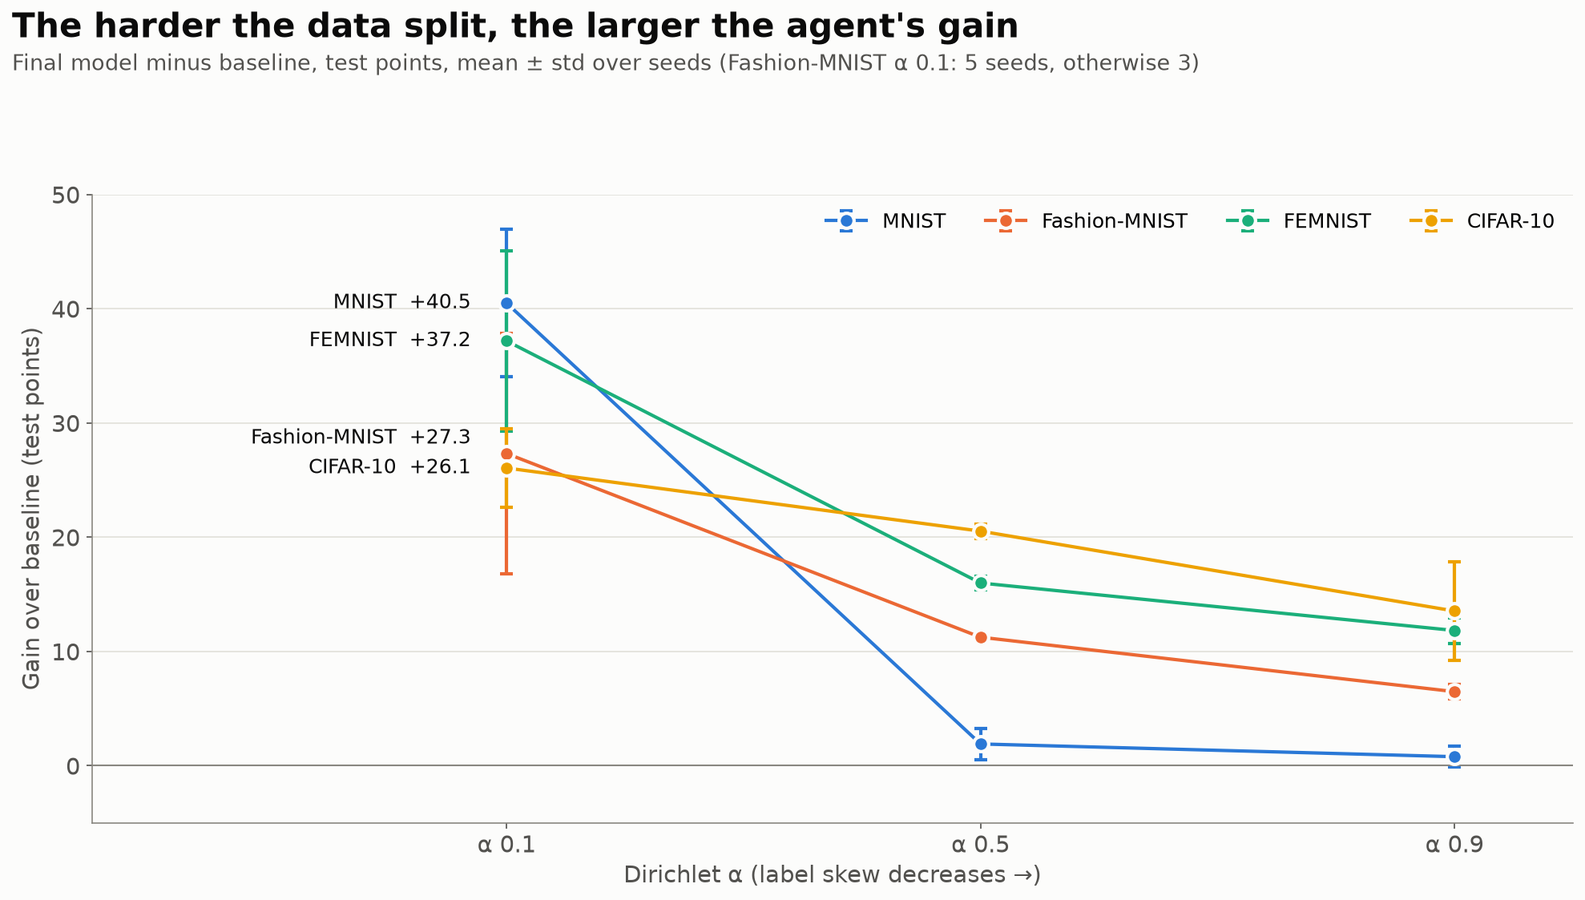
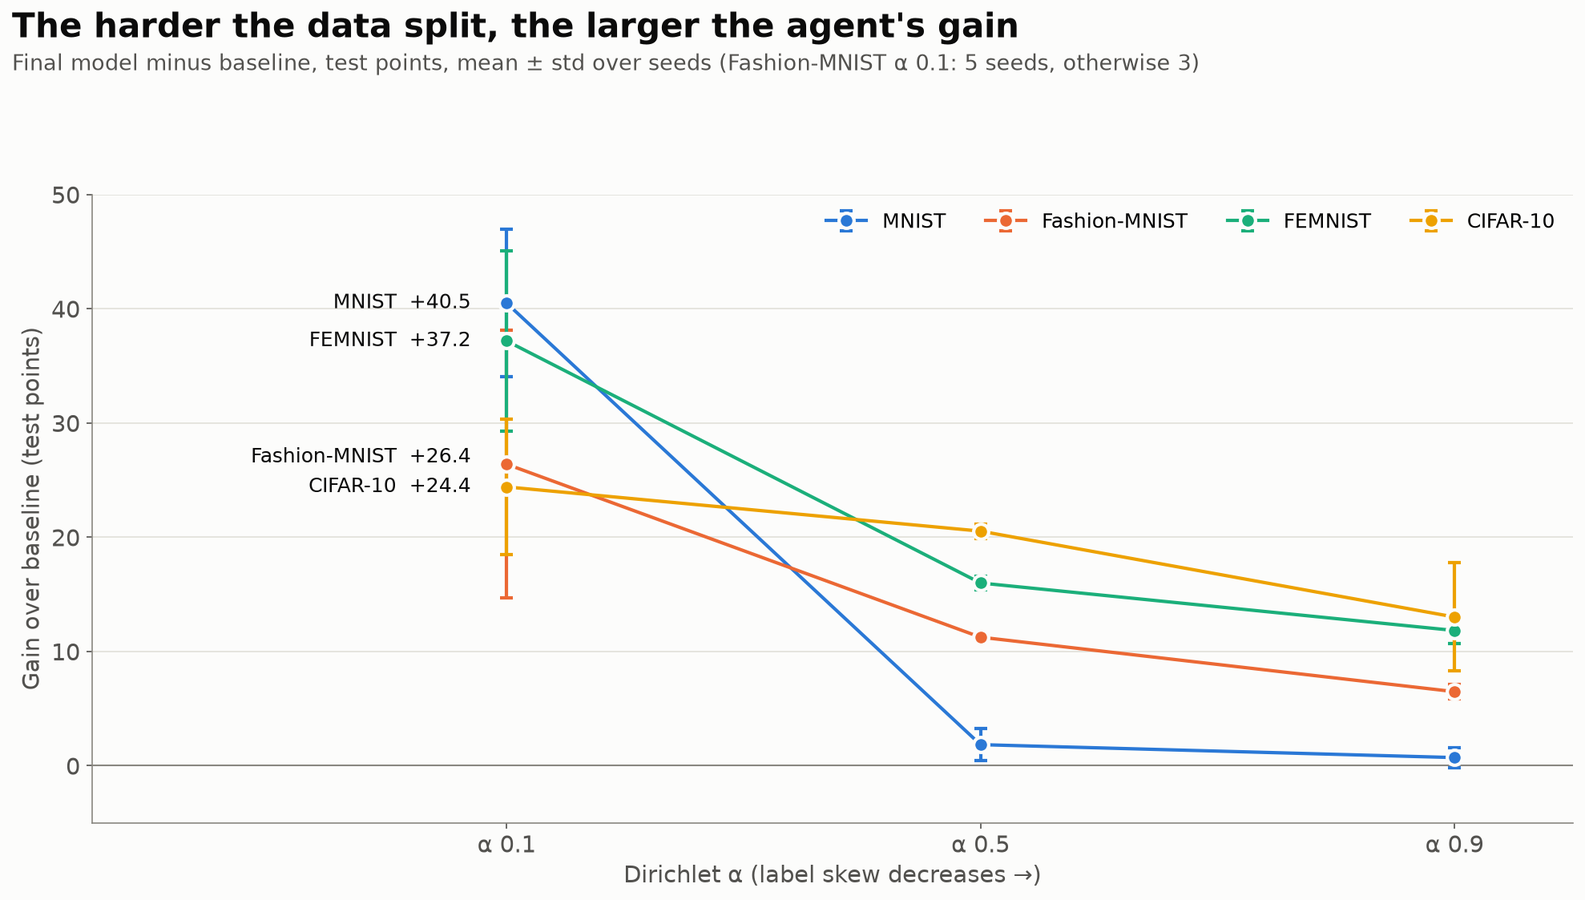
fix(evidence): compare the baseline with the best equal-budget model, not the pruned one
In 6 of 38 fair runs the reported best model was a pruned model, which
fine-tunes already trained weights for extra rounds, so the gain over the
baseline was up to 5 points too high (Fashion-MNIST alpha 0.1 seed 99, CIFAR-10
alpha 0.1 seed 17). The summaries and figures now use each run's best
equal-budget model, chosen by global validation accuracy like the supervisor,
and the four-dataset table lists pruning separately (14 runs halve their
parameters within 2 points).

diff --git a/scripts/four_dataset_table.py b/scripts/four_dataset_table.py
@@ -56,7 +56,9 @@ def build() -> str:
         "The on-device SLM chooses the order of the search steps; every model it compares, the baseline",
         "included, is trained with the same budget (10 rounds × 5 local epochs, same initial weights).",
         "Test accuracy is the mean over the 8 workers on the dataset's official test split, mean ± std",
-        "over seeds (n = number of seeds). Gain = final model minus baseline, per seed.",
+        "over seeds (n = number of seeds). Final = the run's best equal-budget model, chosen by global",
+        "validation accuracy as the supervisor does; a pruned model fine-tunes trained weights for extra",
+        "rounds, so pruning is reported separately below. Gain = final model minus baseline, per seed.",
         "",
         "## Baseline vs. final model",
         "",
@@ -70,12 +72,12 @@ def build() -> str:
                 lines.append(f"| {dname} | {alpha} | 0 | pending | pending | pending | – | – |")
                 continue
             base = [r["baseline_test_accuracy"] for r in runs if _num(r.get("baseline_test_accuracy"))]
-            best = [r["best_test_accuracy"] for r in runs if _num(r.get("best_test_accuracy"))]
-            gains = [r["best_test_accuracy"] - r["baseline_test_accuracy"] for r in runs
-                     if _num(r.get("best_test_accuracy")) and _num(r.get("baseline_test_accuracy"))]
+            best = [r["final_test_accuracy"] for r in runs if _num(r.get("final_test_accuracy"))]
+            gains = [r["final_test_accuracy"] - r["baseline_test_accuracy"] for r in runs
+                     if _num(r.get("final_test_accuracy")) and _num(r.get("baseline_test_accuracy"))]
             topologies = Counter(r.get("best_topology") or "?" for r in runs)
             topology = ", ".join(f"{name} {count}/{len(runs)}" for name, count in topologies.most_common())
-            params = [r["best_parameter_count"] for r in runs if r.get("best_parameter_count")]
+            params = [r["final_parameter_count"] for r in runs if r.get("final_parameter_count")]
             params_text = f"{statistics.fmean(params) / 1000:.0f}k (mean)" if params else "–"
             lines.append(f"| {dname} | {alpha} | {len(runs)} | {_pct(base)} | {_pct(best)} | {_signed(gains)} | {topology} | {params_text} |")
     lines += [
@@ -107,6 +109,26 @@ def build() -> str:
             lines.append(f"| {dname} | {alpha} | " + " | ".join(cells) + " |")
     lines += [
         "",
+        "## Pruning (after the equal-budget comparison)",
+        "",
+        "When the best model can be channel-pruned, the supervisor removes 30 % of its units and",
+        "fine-tunes; the pruned model is kept only within 2 points of the best. Fine-tuning is extra",
+        "training on trained weights, so these numbers are not part of the gain above.",
+        "",
+        "| Dataset | α | Seed | Final test (%) | Pruned test (%) | Parameters: final → pruned |",
+        "|---|---|---|---|---|---|",
+    ]
+    for dataset, dname in DATASETS:
+        for split, alpha in SPLITS:
+            for run in data.get((dataset, split), []):
+                if run.get("pruning_accepted") and _num(run.get("pruned_test_accuracy")):
+                    before = run.get("final_parameter_count")
+                    after = run.get("pruned_parameter_count")
+                    params = f"{before:,} → {after:,}" if before and after else "–"
+                    lines.append(f"| {dname} | {alpha} | {run['seed']} | {100 * run['final_test_accuracy']:.2f} | "
+                                 f"{100 * run['pruned_test_accuracy']:.2f} | {params} |")
+    lines += [
+        "",
         "## Per seed (test %)",
         "",
         "| Dataset | α | Seed | Baseline | Final | Final configuration |",
@@ -115,8 +137,10 @@ def build() -> str:
     for dataset, dname in DATASETS:
         for split, alpha in SPLITS:
             for run in data.get((dataset, split), []):
-                base, best = run.get("baseline_test_accuracy"), run.get("best_test_accuracy")
-                config = f"{run.get('best_architecture') or '?'} on {run.get('best_topology') or '?'}"
+                base, best = run.get("baseline_test_accuracy"), run.get("final_test_accuracy")
+                # The final model is the one before pruning, so drop the pruning suffix.
+                architecture = (run.get("best_architecture") or "?").replace("-pruned30", "")
+                config = f"{architecture} on {run.get('best_topology') or '?'}"
                 lines.append(
                     f"| {dname} | {alpha} | {run['seed']} | {100 * base:.2f} | {100 * best:.2f} | {config} |"
                     if _num(base) and _num(best) else f"| {dname} | {alpha} | {run['seed']} | n/a | n/a | {config} |"

diff --git a/scripts/fair_summary.py b/scripts/fair_summary.py
@@ -135,7 +135,7 @@ def communication_section(data: dict, date: str) -> list[str]:
                 base_mb.append(base_msgs * (baseline.get("parameter_count") or 0) * FLOAT_BYTES / 1e6)
                 edges = TOPOLOGY_EDGES.get(run.get("best_topology") or "", 0)
                 final_msgs.append(rounds * edges)
-                final_mb.append(rounds * edges * (run.get("best_parameter_count") or 0) * FLOAT_BYTES / 1e6)
+                final_mb.append(rounds * edges * (run.get("final_parameter_count") or 0) * FLOAT_BYTES / 1e6)
                 learned = next((s for s in run["steps"] if s["step"] == "learn_topology" and s.get("status") == "completed"), None)
                 count = _learned_edges(apg, dataset, split, run["seed"])
                 if learned and count:
@@ -143,7 +143,7 @@ def communication_section(data: dict, date: str) -> list[str]:
                     learned_mb.append(rounds * count * (learned.get("parameter_count") or 0) * FLOAT_BYTES / 1e6)
                     if isinstance(learned.get("test_accuracy"), (int, float)):
                         learned_test.append(learned["test_accuracy"])
-            best = [r["best_test_accuracy"] for r in runs if isinstance(r.get("best_test_accuracy"), (int, float))]
+            best = [r["final_test_accuracy"] for r in runs if isinstance(r.get("final_test_accuracy"), (int, float))]
             mean = statistics.fmean
             learned_cell = (f"{mean(learned_edges):.1f} / {10 * mean(learned_edges):.0f} / {mean(learned_mb):.1f}"
                             if learned_edges else "n/a")
@@ -307,7 +307,7 @@ def ablation_section(data: dict, date: str) -> list[str]:
                 campaign = source.get(seed, {})
                 values = {
                     "baseline": [campaign.get("baseline_test_accuracy"), *(_test(r, "baseline") for r in runs)],
-                    "full": [campaign.get("best_test_accuracy"), *(_test(r, "full") for r in runs)],
+                    "full": [campaign.get("final_test_accuracy"), *(_test(r, "full") for r in runs)],
                 }
                 row = []
                 for label, vals in values.items():
@@ -454,10 +454,10 @@ def decision_section(date: str) -> list[str]:
 def limitations_section(data: dict) -> list[str]:
     """What these results do not show."""
     best = [
-        r["best_test_accuracy"]
+        r["final_test_accuracy"]
         for runs in data.values()
         for r in runs
-        if isinstance(r.get("best_test_accuracy"), (int, float))
+        if isinstance(r.get("final_test_accuracy"), (int, float))
     ]
     target = next((r.get("target_accuracy") for runs in data.values() for r in runs if r.get("target_accuracy")), 0.99)
     return [
@@ -519,10 +519,10 @@ def build(date: str) -> str:
             if not runs:
                 continue
             base = [r["baseline_test_accuracy"] for r in runs if isinstance(r.get("baseline_test_accuracy"), (int, float))]
-            best = [r["best_test_accuracy"] for r in runs if isinstance(r.get("best_test_accuracy"), (int, float))]
-            gains = [r["best_test_accuracy"] - r["baseline_test_accuracy"] for r in runs
-                     if isinstance(r.get("best_test_accuracy"), (int, float)) and isinstance(r.get("baseline_test_accuracy"), (int, float))]
-            params = sorted({f"{r['best_parameter_count']:,}" for r in runs if r.get("best_parameter_count")})
+            best = [r["final_test_accuracy"] for r in runs if isinstance(r.get("final_test_accuracy"), (int, float))]
+            gains = [r["final_test_accuracy"] - r["baseline_test_accuracy"] for r in runs
+                     if isinstance(r.get("final_test_accuracy"), (int, float)) and isinstance(r.get("baseline_test_accuracy"), (int, float))]
+            params = sorted({f"{r['final_parameter_count']:,}" for r in runs if r.get("final_parameter_count")})
             lines.append(f"| {dname} | {alpha} | {len(runs)} | {_pct(base)} | {_pct(best)} | {_signed(gains)} | {', '.join(params)} |")
 
     lines += [
@@ -575,7 +575,7 @@ def build(date: str) -> str:
                         continue
                     mark = " (reverted)" if step.get("accepted") is False else ""
                     parts.append(f"{label} {100 * step['validation_accuracy']:.2f}{mark}")
-                best = run.get("best_test_accuracy")
+                best = run.get("final_test_accuracy")
                 lines.append(f"| {run['seed']} | {' → '.join(parts)} | {100 * best:.2f} |" if isinstance(best, (int, float)) else f"| {run['seed']} | {' → '.join(parts)} | n/a |")
             lines.append("")
     return "\n".join(lines) + "\n"

diff --git a/scripts/evidence_runs.py b/scripts/evidence_runs.py
@@ -30,8 +30,37 @@ def baseline_excluded(run: dict) -> bool:
     return str(run.get("run_id")) in EXCLUDED
 
 
+# Trainings that use the baseline's budget (rounds x local epochs from the run's initial
+# weights). Pruning fine-tunes already trained weights, so it is extra training.
+EQUAL_BUDGET_STEPS = ("baseline_training", "measure_step", "learn_topology")
+
+
+def fair_final(run: dict) -> dict:
+    """The run's best equal-budget model, chosen by global validation accuracy like the supervisor.
+
+    Returns {"test", "validation", "step", "parameter_count"}; a run whose best model is a
+    pruned and fine-tuned one is scored by its best model before pruning.
+    """
+    steps = [
+        s for s in run["steps"]
+        if s["step"] in EQUAL_BUDGET_STEPS and s.get("status", "completed") == "completed"
+        and isinstance(s.get("validation_accuracy"), (int, float)) and isinstance(s.get("test_accuracy"), (int, float))
+    ]
+    best = max(steps, key=lambda s: s["validation_accuracy"])
+    return {
+        "test": best["test_accuracy"],
+        "validation": best["validation_accuracy"],
+        "step": best.get("measures") or best["step"],
+        "parameter_count": best.get("parameter_count"),
+    }
+
+
 def campaign_runs(dataset: str, split: str, date: str | None = None) -> list[dict]:
     """Completed fair-campaign runs of one setting, newest report per seed, sorted by seed.
+
+    Each run gains ``final_test_accuracy`` (and validation, step, parameter count): its best
+    equal-budget model (``fair_final``), which the comparison with the baseline uses.
+    ``best_test_accuracy`` may be a pruned model that was fine-tuned for extra rounds.
 
     Reads ``fair-<dataset>-<split>-3seed-<date>.json`` (any date when ``date`` is None)
     and the extra-seed and re-run reports ``fair-<dataset>-<split>-{extra-seeds,rerun}-*.json``.
@@ -44,5 +73,12 @@ def campaign_runs(dataset: str, split: str, date: str | None = None) -> list[dic
     for path in paths:
         for run in json.loads(path.read_text(encoding="utf-8"))["runs"]:
             if run["status"] == "completed" and not run_excluded(run):
-                by_seed[run["seed"]] = run
+                final = fair_final(run)
+                by_seed[run["seed"]] = {
+                    **run,
+                    "final_test_accuracy": final["test"],
+                    "final_validation_accuracy": final["validation"],
+                    "final_step": final["step"],
+                    "final_parameter_count": final["parameter_count"] or run.get("best_parameter_count"),
+                }
     return [by_seed[seed] for seed in sorted(by_seed)]

diff --git a/scripts/paper_figures.py b/scripts/paper_figures.py
@@ -84,7 +84,7 @@ def fig_baseline_vs_final(data) -> None:
         for i, (split, alpha) in enumerate(SPLITS):
             runs = data.get((dataset, split), [])
             base = mean_std([r["baseline_test_accuracy"] for r in runs])
-            final = mean_std([r["best_test_accuracy"] for r in runs])
+            final = mean_std([r["final_test_accuracy"] for r in runs])
             if base[0] is None:
                 continue
             for offset, (value, std), color in ((-width / 2 - 0.01, base, BASELINE_GRAY), (width / 2 + 0.01, final, SERIES[0])):
@@ -112,7 +112,7 @@ def fig_gain_vs_alpha(data) -> None:
         gains, stds = [], []
         for split, _ in SPLITS:
             runs = data.get((dataset, split), [])
-            g = mean_std([r["best_test_accuracy"] - r["baseline_test_accuracy"] for r in runs])
+            g = mean_std([r["final_test_accuracy"] - r["baseline_test_accuracy"] for r in runs])
             gains.append(g[0])
             stds.append(g[1])
         ax.errorbar(x, gains, yerr=stds, color=color, linewidth=2, marker="o", markersize=9, capsize=4,

diff --git a/docs/evidence/fair-four-datasets.md b/docs/evidence/fair-four-datasets.md
@@ -1,29 +1,31 @@
 # Fair evaluation across four datasets
 
-Generated 2026-11-28 01:10 UTC by `scripts/four_dataset_table.py`.
+Generated 2026-11-28 01:36 UTC by `scripts/four_dataset_table.py`.
 
 Eight Jetson workers, decentralized training, Dirichlet label skew α (smaller = more skewed).
 The on-device SLM chooses the order of the search steps; every model it compares, the baseline
 included, is trained with the same budget (10 rounds × 5 local epochs, same initial weights).
 Test accuracy is the mean over the 8 workers on the dataset's official test split, mean ± std
-over seeds (n = number of seeds). Gain = final model minus baseline, per seed.
+over seeds (n = number of seeds). Final = the run's best equal-budget model, chosen by global
+validation accuracy as the supervisor does; a pruned model fine-tunes trained weights for extra
+rounds, so pruning is reported separately below. Gain = final model minus baseline, per seed.
 
 ## Baseline vs. final model
 
 | Dataset | α | n | Baseline test (%) | Final test (%) | Gain (points) | Selected topology | Final params |
 |---|---|---|---|---|---|---|---|
 | MNIST | 0.1 | 3 | 56.33 ± 7.27 | 96.83 ± 1.33 | +40.50 ± 6.48 | mesh 3/3 | 62k (mean) |
-| MNIST | 0.5 | 3 | 96.96 ± 0.98 | 98.87 ± 0.46 | +1.91 ± 1.36 | learned 2/3, mesh 1/3 | 58k (mean) |
-| MNIST | 0.9 | 3 | 98.09 ± 0.66 | 98.89 ± 0.36 | +0.79 ± 0.90 | learned 2/3, directed_ring 1/3 | 36k (mean) |
-| Fashion-MNIST | 0.1 | 5 | 44.26 ± 3.69 | 71.60 ± 8.55 | +27.33 ± 10.52 | mesh 4/5, learned 1/5 | 67k (mean) |
+| MNIST | 0.5 | 3 | 96.96 ± 0.98 | 98.81 ± 0.43 | +1.85 ± 1.38 | learned 2/3, mesh 1/3 | 62k (mean) |
+| MNIST | 0.9 | 3 | 98.09 ± 0.66 | 98.81 ± 0.30 | +0.71 ± 0.87 | learned 2/3, directed_ring 1/3 | 62k (mean) |
+| Fashion-MNIST | 0.1 | 5 | 44.26 ± 3.69 | 70.66 ± 9.74 | +26.40 ± 11.72 | mesh 4/5, learned 1/5 | 68k (mean) |
 | Fashion-MNIST | 0.5 | 3 | 78.41 ± 1.60 | 89.67 ± 1.29 | +11.25 ± 0.32 | mesh 3/3 | 103k (mean) |
 | Fashion-MNIST | 0.9 | 3 | 83.56 ± 0.54 | 90.05 ± 0.92 | +6.49 ± 0.63 | mesh 3/3 | 60k (mean) |
 | FEMNIST | 0.1 | 3 | 33.38 ± 4.38 | 70.57 ± 4.49 | +37.19 ± 7.87 | mesh 3/3 | 106k (mean) |
 | FEMNIST | 0.5 | 3 | 66.73 ± 1.05 | 82.73 ± 1.23 | +16.00 ± 0.57 | mesh 3/3 | 106k (mean) |
 | FEMNIST | 0.9 | 3 | 71.78 ± 2.08 | 83.62 ± 1.13 | +11.84 ± 1.12 | mesh 3/3 | 100k (mean) |
-| CIFAR-10 | 0.1 | 3 | 35.36 ± 8.31 | 61.42 ± 4.85 | +26.06 ± 3.46 | mesh 3/3 | 194k (mean) |
+| CIFAR-10 | 0.1 | 3 | 35.36 ± 8.31 | 59.77 ± 3.44 | +24.41 ± 5.92 | mesh 3/3 | 248k (mean) |
 | CIFAR-10 | 0.5 | 3 | 59.57 ± 1.71 | 80.11 ± 2.30 | +20.54 ± 0.63 | mesh 3/3 | 273k (mean) |
-| CIFAR-10 | 0.9 | 3 | 68.90 ± 3.15 | 82.44 ± 1.20 | +13.55 ± 4.29 | mesh 3/3 | 240k (mean) |
+| CIFAR-10 | 0.9 | 3 | 68.90 ± 3.15 | 81.92 ± 1.93 | +13.02 ± 4.74 | mesh 3/3 | 273k (mean) |
 
 ## Effect of each step (test points)
 
@@ -46,6 +48,28 @@ topology (APG) is measured last, without a keep/revert decision.
 | CIFAR-10 | 0.5 | +2.36 ± 1.81 (3/3 kept) | +17.56 ± 2.32 (3/3 kept) | +0.19 ± 0.93 (2/3 kept) | -2.28 ± 3.44 (1/3 kept) | -0.10 ± 0.77 (1/3 kept) | -6.46 ± 3.00 |
 | CIFAR-10 | 0.9 | +1.48 ± 3.87 (2/3 kept) | +10.92 ± 2.07 (3/3 kept) | -0.52 ± 0.54 (1/3 kept) | -1.44 ± 2.45 (1/3 kept) | -0.39 ± 0.20 (0/3 kept) | -2.12 ± 0.55 |
 
+## Pruning (after the equal-budget comparison)
+
+When the best model can be channel-pruned, the supervisor removes 30 % of its units and
+fine-tunes; the pruned model is kept only within 2 points of the best. Fine-tuning is extra
+training on trained weights, so these numbers are not part of the gain above.
+
+| Dataset | α | Seed | Final test (%) | Pruned test (%) | Parameters: final → pruned |
+|---|---|---|---|---|---|
+| MNIST | 0.5 | 17 | 99.20 | 99.22 | 129,770 → 64,240 |
+| MNIST | 0.5 | 2026 | 98.88 | 99.06 | 22,682 → 11,065 |
+| MNIST | 0.9 | 17 | 99.00 | 99.10 | 129,770 → 64,240 |
+| MNIST | 0.9 | 2026 | 98.95 | 99.09 | 22,682 → 11,065 |
+| Fashion-MNIST | 0.1 | 99 | 59.47 | 64.14 | 17,130 → 8,403 |
+| Fashion-MNIST | 0.5 | 2026 | 90.14 | 89.56 | 69,770 → 33,995 |
+| Fashion-MNIST | 0.9 | 17 | 90.85 | 90.41 | 129,770 → 64,240 |
+| Fashion-MNIST | 0.9 | 42 | 89.05 | 88.08 | 28,810 → 14,493 |
+| Fashion-MNIST | 0.9 | 2026 | 90.25 | 89.42 | 22,682 → 11,065 |
+| FEMNIST | 0.9 | 17 | 84.68 | 83.70 | 133,150 → 66,632 |
+| FEMNIST | 0.9 | 42 | 83.75 | 83.02 | 112,830 → 57,122 |
+| CIFAR-10 | 0.1 | 17 | 60.48 | 65.44 | 324,394 → 161,094 |
+| CIFAR-10 | 0.9 | 2026 | 79.96 | 81.54 | 197,290 → 97,700 |
+
 ## Per seed (test %)
 
 | Dataset | α | Seed | Baseline | Final | Final configuration |
@@ -55,14 +79,14 @@ topology (APG) is measured last, without a keep/revert decision.
 | MNIST | 0.1 | 2026 | 63.59 | 98.29 | nas-d3-w16x16x32-k5-conv-h64-drop20 on mesh |
 | MNIST | 0.5 | 17 | 95.84 | 99.20 | nas-d3-w16x64x64-k5-conv-h0-drop35 on mesh |
 | MNIST | 0.5 | 42 | 97.69 | 98.34 | hpo-adam-lr3e-4-bs32 on learned |
-| MNIST | 0.5 | 2026 | 97.35 | 99.06 | hpo-adam-lr3e-3-bs32-pruned30 on learned |
-| MNIST | 0.9 | 17 | 97.33 | 99.10 | hpo-adam-lr3e-4-bs32-pruned30 on learned |
+| MNIST | 0.5 | 2026 | 97.35 | 98.88 | hpo-adam-lr3e-3-bs32 on learned |
+| MNIST | 0.9 | 17 | 97.33 | 99.00 | hpo-adam-lr3e-4-bs32 on learned |
 | MNIST | 0.9 | 42 | 98.49 | 98.47 | seed-baseline on directed_ring |
-| MNIST | 0.9 | 2026 | 98.46 | 99.09 | hpo-adam-lr1e-3-bs64-pruned30 on learned |
+| MNIST | 0.9 | 2026 | 98.46 | 98.95 | hpo-adam-lr1e-3-bs64 on learned |
 | Fashion-MNIST | 0.1 | 7 | 48.26 | 74.09 | hpo-adam-lr3e-4-bs32 on mesh |
 | Fashion-MNIST | 0.1 | 17 | 43.13 | 82.40 | nas-d3-w16x64x64-k5-conv-h0-drop35 on mesh |
 | Fashion-MNIST | 0.1 | 42 | 44.94 | 61.71 | nas-d2-w64x64-k5-conv-h64-drop35 on mesh |
-| Fashion-MNIST | 0.1 | 99 | 46.40 | 64.14 | nas-d3-w16x32x32-k3-conv-h64-drop20-pruned30 on learned |
+| Fashion-MNIST | 0.1 | 99 | 46.40 | 59.47 | nas-d3-w16x32x32-k3-conv-h64-drop20 on learned |
 | Fashion-MNIST | 0.1 | 2026 | 38.58 | 75.64 | hpo-adam-lr3e-4-bs64 on mesh |
 | Fashion-MNIST | 0.5 | 17 | 79.69 | 90.65 | nas-d3-w16x64x64-k5-conv-h0-drop35 on mesh |
 | Fashion-MNIST | 0.5 | 42 | 76.62 | 88.21 | nas-d2-w64x64-k5-conv-h64-drop35 on mesh |
@@ -79,7 +103,7 @@ topology (APG) is measured last, without a keep/revert decision.
 | FEMNIST | 0.9 | 17 | 74.11 | 84.68 | hpo-adam-lr3e-3-bs32 on mesh |
 | FEMNIST | 0.9 | 42 | 71.08 | 83.75 | nas-d2-w64x64-k5-conv-h64-drop35 on mesh |
 | FEMNIST | 0.9 | 2026 | 70.14 | 82.43 | hpo-adam-lr1e-3-bs32 on mesh |
-| CIFAR-10 | 0.1 | 17 | 42.38 | 65.44 | hpo-adam-lr1e-3-bs8-pruned30 on mesh |
+| CIFAR-10 | 0.1 | 17 | 42.38 | 60.48 | hpo-adam-lr1e-3-bs8 on mesh |
 | CIFAR-10 | 0.1 | 42 | 26.19 | 56.03 | nas-d3-w32x64x128-k3-conv-h0-drop35 on mesh |
 | CIFAR-10 | 0.1 | 2026 | 37.50 | 62.79 | hpo-adam-lr3e-4-bs8 on mesh |
 | CIFAR-10 | 0.5 | 17 | 58.62 | 79.08 | hpo-adam-lr3e-4-bs8 on mesh |
@@ -87,4 +111,4 @@ topology (APG) is measured last, without a keep/revert decision.
 | CIFAR-10 | 0.5 | 2026 | 58.55 | 78.50 | nas-d2-w32x128-k3-conv-h0-drop35-c2 on mesh |
 | CIFAR-10 | 0.9 | 17 | 71.31 | 81.98 | baseline on mesh |
 | CIFAR-10 | 0.9 | 42 | 65.34 | 83.81 | hpo-adam-lr1e-3-bs32 on mesh |
-| CIFAR-10 | 0.9 | 2026 | 70.05 | 81.54 | nas-d2-w32x128-k3-conv-h0-drop35-c2-pruned30 on mesh |
+| CIFAR-10 | 0.9 | 2026 | 70.05 | 79.96 | nas-d2-w32x128-k3-conv-h0-drop35-c2 on mesh |

diff --git a/docs/evidence/fair-summary-2026-11-21.md b/docs/evidence/fair-summary-2026-11-21.md
@@ -1,6 +1,6 @@
 # Fair step-by-step evaluation: Fashion-MNIST and FEMNIST
 
-Generated 2026-11-25 16:48 UTC by `scripts/fair_summary.py`.
+Generated 2026-11-28 01:35 UTC by `scripts/fair_summary.py`.
 
 Eight Jetson workers, decentralized training, Dirichlet label split with α = 0.1, 0.5 and 0.9,
 seeds 17, 42 and 2026 (Fashion-MNIST α 0.1 also 7 and 99). Runs whose baseline started from
@@ -13,7 +13,7 @@ the mean over the 8 workers on the dataset's shared test split. Values are mean 
 
 | Dataset | α | Seeds | Baseline test (%) | Final model test (%) | Gain (points) | Final params |
 |---|---|---|---|---|---|---|
-| Fashion-MNIST | 0.1 | 5 | 44.26 ± 3.69 | 71.60 ± 8.55 | +27.33 ± 10.52 | 109,450, 129,770, 34,154, 51,754, 8,403 |
+| Fashion-MNIST | 0.1 | 5 | 44.26 ± 3.69 | 70.66 ± 9.74 | +26.40 ± 11.72 | 109,450, 129,770, 17,130, 34,154, 51,754 |
 | Fashion-MNIST | 0.5 | 3 | 78.41 ± 1.60 | 89.67 ± 1.29 | +11.25 ± 0.32 | 109,450, 129,770, 69,770 |
 | Fashion-MNIST | 0.9 | 3 | 83.56 ± 0.54 | 90.05 ± 0.92 | +6.49 ± 0.63 | 129,770, 22,682, 28,810 |
 | FEMNIST | 0.1 | 3 | 33.38 ± 4.38 | 70.57 ± 4.49 | +37.19 ± 7.87 | 112,830, 133,150, 73,150 |
@@ -59,7 +59,7 @@ The search steps (NAS, sweeps) are not counted; they cost the same for every see
 
 | Dataset | α | Baseline: models / MB | Final model: models / MB | Learned (APG): edges / models / MB | Final test (%) | Learned test (%) |
 |---|---|---|---|---|---|---|
-| Fashion-MNIST | 0.1 | 80 / 9.2 | 448 / 145.7 | 31.7 / 317 / 120.3 | 71.60 ± 8.55 | 60.51 ± 4.32 |
+| Fashion-MNIST | 0.1 | 80 / 9.2 | 448 / 145.7 | 31.7 / 317 / 120.3 | 70.66 ± 9.74 | 60.51 ± 4.32 |
 | Fashion-MNIST | 0.5 | 80 / 9.2 | 560 / 230.7 | 27.3 / 273 / 112.2 | 89.67 ± 1.29 | 87.68 ± 1.39 |
 | Fashion-MNIST | 0.9 | 80 / 9.2 | 560 / 135.3 | 28.3 / 283 / 68.0 | 90.05 ± 0.92 | 88.65 ± 1.07 |
 | FEMNIST | 0.1 | 80 / 11.4 | 560 / 238.3 | 31.0 / 310 / 132.7 | 70.57 ± 4.49 | 55.31 ± 1.45 |
@@ -237,7 +237,7 @@ test points, 95 % t interval):
 | 7 | Baseline 48.73 → NAS 49.84 → Topology sweep 70.03 → Aggregation sweep 73.75 → HPO 74.40 → Synchronization sweep 74.83 → Learned topology (APG) 65.49 | 74.09 |
 | 17 | Baseline 43.29 → NAS 53.71 → Topology sweep 81.55 → Aggregation sweep 81.57 → HPO 77.03 (reverted) → Synchronization sweep 82.83 → Learned topology (APG) 59.56 | 82.40 |
 | 42 | Baseline 45.32 → NAS 46.72 → Aggregation sweep 50.46 → Synchronization sweep 40.86 (reverted) → HPO 42.96 (reverted) → Topology sweep 61.95 → Learned topology (APG) 57.29 | 61.71 |
-| 99 | Baseline 46.49 → NAS 52.64 → Aggregation sweep 53.06 → Synchronization sweep 52.61 → HPO 51.48 (reverted) → Topology sweep 52.83 → Learned topology (APG) 59.83 | 64.14 |
+| 99 | Baseline 46.49 → NAS 52.64 → Aggregation sweep 53.06 → Synchronization sweep 52.61 → HPO 51.48 (reverted) → Topology sweep 52.83 → Learned topology (APG) 59.83 | 59.47 |
 | 2026 | Baseline 38.61 → NAS 51.11 → Topology sweep 70.93 → Aggregation sweep 71.07 → HPO 75.22 → Synchronization sweep 75.07 → Learned topology (APG) 64.98 | 75.64 |
 
 ### Fashion-MNIST, α 0.5

diff --git a/docs/evidence/decision-robustness-2026-11-21.md b/docs/evidence/decision-robustness-2026-11-21.md
@@ -1,6 +1,6 @@
 # Robustness of the keep-or-revert decisions
 
-Generated 2026-11-25 16:48 UTC by `scripts/decision_robustness.py`.
+Generated 2026-11-28 01:35 UTC by `scripts/decision_robustness.py`.
 
 The fair campaign keeps a step's change when its measurement is at least the best global
 validation accuracy so far minus 0.5 points. σ is the pooled within-seed standard
